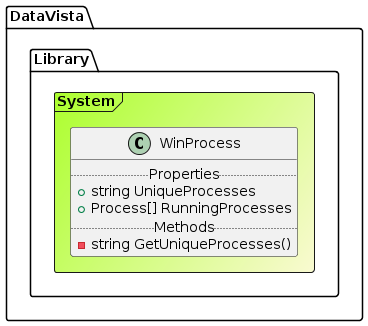
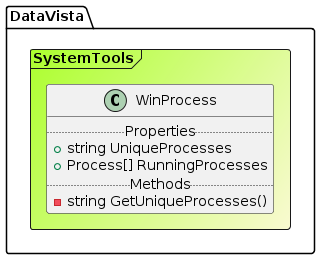
- Changed System namespace to Systemtools - Changed External namespace to DLL - Added Read SQL file methods

diff --git a/Library/Database/DataConverter.cs b/Library/Database/DataConverter.cs
@@ -1,32 +1,42 @@
-using DataVista.System;
+using DataVista.Extensions;
+using DataVista.SystemTools;
+using Microsoft.Win32;
 using System;
 using System.Collections.Generic;
 using System.Data;
 using System.IO;
 using System.Linq;
+using System.Linq.Expressions;
 using System.Text;
 using System.Threading.Tasks;
+using System.Windows;
 using System.Windows.Data;
+using System.Windows.Documents;
+using System.Windows.Shapes;
 
 namespace DataVista.Database
 {
     public class DataConverter
     {
-        private static string? _winpath = WinPath.MyDocuments + @"\DataConverter";
+        #region FIELDS
+        private static string? _winpath = SystemTools.WinPath.MyDocuments + @"\DataConverter";
+        #endregion
 
+        #region CONSTRUCTOR
         /// <summary>
         /// Needs constructor to verify <see cref="Path"/>
         /// </summary>
-        DataConverter()
+        public DataConverter()
         {
-            if (!Directory.Exists(Path))
+            if (!Directory.Exists(WinPath))
             {
-                Directory.CreateDirectory(Path);
+                Directory.CreateDirectory(WinPath);
             }
         }
+        #endregion
 
         #region PROPERTIES
-        public static string Path
+        public static string? WinPath
         {
             get
             {
@@ -39,11 +49,76 @@ namespace DataVista.Database
         }
         #endregion
 
+        #region SQL
+        /// <summary>
+        /// Pass in a valid full filepath
+        ///<para> Example: <code>string filePath = "C:\Users\Admin\source\repos\MyProject\SQL\Procedures.sql"</code></para>
+        /// </summary>
+        /// <param name="filePath"></param>
+        /// <returns></returns>
+        /// <exception cref="ArgumentException"></exception>
+        public static string ReadSqlFile(string filePath)
+        {
+
+            string query = String.Empty;
+            string fileType = System.IO.Path.GetExtension(filePath).ToLower();
+
+            try
+            {
+                if (File.Exists(filePath) && fileType == ".sql")
+                {
+
+                    query = File.ReadAllText(filePath);
+
+                }
+                else
+                {
+                    throw new ArgumentException("Invalid SQL file path provided.");
+                }
+            }
+            catch (Exception ex)
+            {
+                query = $"Query: {query} {Environment.NewLine}" +
+                    $"Exception: {ex}";
+            }
+            return query;
+        }
+
+        public static string ReadSqlDialog()
+        {
+            string query = String.Empty;
+            OpenFileDialog openFileDialog = new OpenFileDialog();
+            openFileDialog.Filter = "SQL files (*.sql)|*.sql|All files (*.*)|*.*";
+            try
+            {
+                if (openFileDialog.ShowDialog() == true)
+                {
+
+                    string filePath = openFileDialog.FileName;
+                    query = File.ReadAllText(filePath);
+                }
+                else
+                {
+                    throw new ArgumentException("Invalid SQL file path provided.");
+                }
+            }
+            catch (Exception ex)
+            {
+                query = $"Query: {query} {Environment.NewLine}" +
+                    $"Exception: {ex}";
+
+            }
+            return query;
+        }
+        #endregion
+
+        #region XML
         public void SerializeXml(DataSet dataSet)
         {
-            dataSet.WriteXmlSchema(Path);
-            dataSet.WriteXml(Path);
+            dataSet.WriteXmlSchema(WinPath);
+            dataSet.WriteXml(WinPath);
         }
+
         public void SerializeXml(DataSet dataSet, string winPath)
         {
             dataSet.WriteXmlSchema(winPath);
@@ -52,8 +127,8 @@ namespace DataVista.Database
 
         public DataSet DeSerializeXml(DataSet dataSet)
         {
-            dataSet.ReadXmlSchema(Path);
-            dataSet.ReadXml(Path);
+            dataSet.ReadXmlSchema(WinPath);
+            dataSet.ReadXml(WinPath);
 
             return dataSet;
         }
@@ -65,5 +140,6 @@ namespace DataVista.Database
 
             return dataSet;
         }
+        #endregion
     }
 }

diff --git a/Library/Extensions/Methods.cs b/Library/Extensions/Methods.cs
@@ -72,39 +72,7 @@ namespace DataVista.Extensions
         #endregion
 
         #region EXPERIMENTAL
-        public static void PrintChanges(this DataSet dataSet, string result)
-        {
-            result = $"DataBaseName: {dataSet.DataSetName}{Environment.NewLine}";
-            result += $"Has changes: {dataSet.HasChanges()}{Environment.NewLine}";
-
-            foreach (DataTable dataTable in dataSet.Tables)
-            {
-                dataTable.PrintChanges(result);
-            }
-        }
-
-        public static void PrintChanges(this DataTable dataTable, string result)
-        {
-            result = $"DataTableName: {dataTable.TableName}{Environment.NewLine}";
-            result += $"Has changes: {dataTable.GetChanges()}{Environment.NewLine}";
-
-            foreach (DataRow dataRow in dataTable.Rows)
-            {
-                dataRow.PrintChanges(result);
-            }
-        }
-
-        public static void PrintChanges(this DataRow dataRow, string result)
-        {
-            string row = String.Empty;
-
-            foreach (DataColumn dataColumn in dataRow.Table.Columns)
-            {
-                row += dataRow[dataColumn].ToString() + "\t";
-            }
-
-            result += row;
-        }
+        //empty section
         #endregion
     }
 }

diff --git a/Library/SystemTools/Hardware.cs b/Library/SystemTools/Hardware.cs
@@ -1,4 +1,4 @@
-using DataVista.System.Interface;
+using DataVista.SystemTools.Interface;
 using System;
 using System.Collections.Generic;
 using System.Configuration;
@@ -11,7 +11,7 @@ using System.Threading.Tasks;
 using System.Windows;
 using System.Windows.Controls;
 
-namespace DataVista.System
+namespace DataVista.SystemTools
 {
     public class Hardware : ISystemManager
     {

diff --git a/Library/DLL/DVC.cs b/Library/DLL/DVC.cs
@@ -5,7 +5,7 @@ using System.Runtime.InteropServices;
 using System.Text;
 using System.Threading.Tasks;
 
-namespace DataVista.External
+namespace DataVista.DLL
 {
     /// <summary>
     /// Class importing the DataVista C dll functions.

diff --git a/Library/SystemTools/Interface/ISystemExceptionHandler.cs b/Library/SystemTools/Interface/ISystemExceptionHandler.cs
@@ -4,7 +4,7 @@ using System.Linq;
 using System.Text;
 using System.Threading.Tasks;
 
-namespace DataVista.System.Interface
+namespace DataVista.SystemTools.Interface
 {
     internal interface ISystemExceptionHandler
     {

diff --git a/Library/SystemTools/Interface/ISystemManager.cs b/Library/SystemTools/Interface/ISystemManager.cs
@@ -6,7 +6,7 @@ using System.Text;
 using System.Threading.Tasks;
 using System.Windows;
 
-namespace DataVista.System.Interface
+namespace DataVista.SystemTools.Interface
 {
     internal interface ISystemManager
     {

diff --git a/Library/SystemTools/Framerate.cs b/Library/SystemTools/Framerate.cs
@@ -8,7 +8,7 @@ using System.Windows;
 using System.Windows.Controls;
 using System.Windows.Media;
 
-namespace DataVista.System
+namespace DataVista.SystemTools
 {
     public class Framerate
     {

diff --git a/Library/SystemTools/WinProcess.cs b/Library/SystemTools/WinProcess.cs
@@ -6,7 +6,7 @@ using System.Linq;
 using System.Text;
 using System.Threading.Tasks;
 
-namespace DataVista.System
+namespace DataVista.SystemTools
 {
     public class WinProcess
     {

diff --git a/Library/SystemTools/WinPath.cs b/Library/SystemTools/WinPath.cs
@@ -5,7 +5,7 @@ using System.Linq;
 using System.Text;
 using System.Threading.Tasks;
 
-namespace DataVista.System
+namespace DataVista.SystemTools
 {
     public class WinPath
     {

diff --git a/README.md b/README.md
@@ -51,24 +51,24 @@ graph LR;
 	SQL[(Database)] -.-> Connection.cs
 
 	DataVista --> Database
-	DataVista --> System
+	DataVista --> SystemTools
 	DataVista --> Extensions
-	DataVista --> External
+	DataVista --> DLL
 	
 	Database --> Connection.cs
 	Database --> Operation.cs
 	Database --> DataConverter.cs
 	
-	System --> Hardware.cs
-	System --> WinPath.cs
-	System --> WinProcess.cs
-	System --> Framerate.cs
+	SystemTools --> Hardware.cs
+	SystemTools --> WinPath.cs
+	SystemTools --> WinProcess.cs
+	SystemTools --> Framerate.cs
 	
 	Extensions --> Methods.cs
 	
-	External --> DVC.cs
+	DLL --> DVC.cs
 	
-	DVC.dll -. C library.-> External
+	DVC.dll -. C library.-> DLL
 ```
 
 ### 4. To use methods from DataVista.External, add the DLL file(s) (optional)
